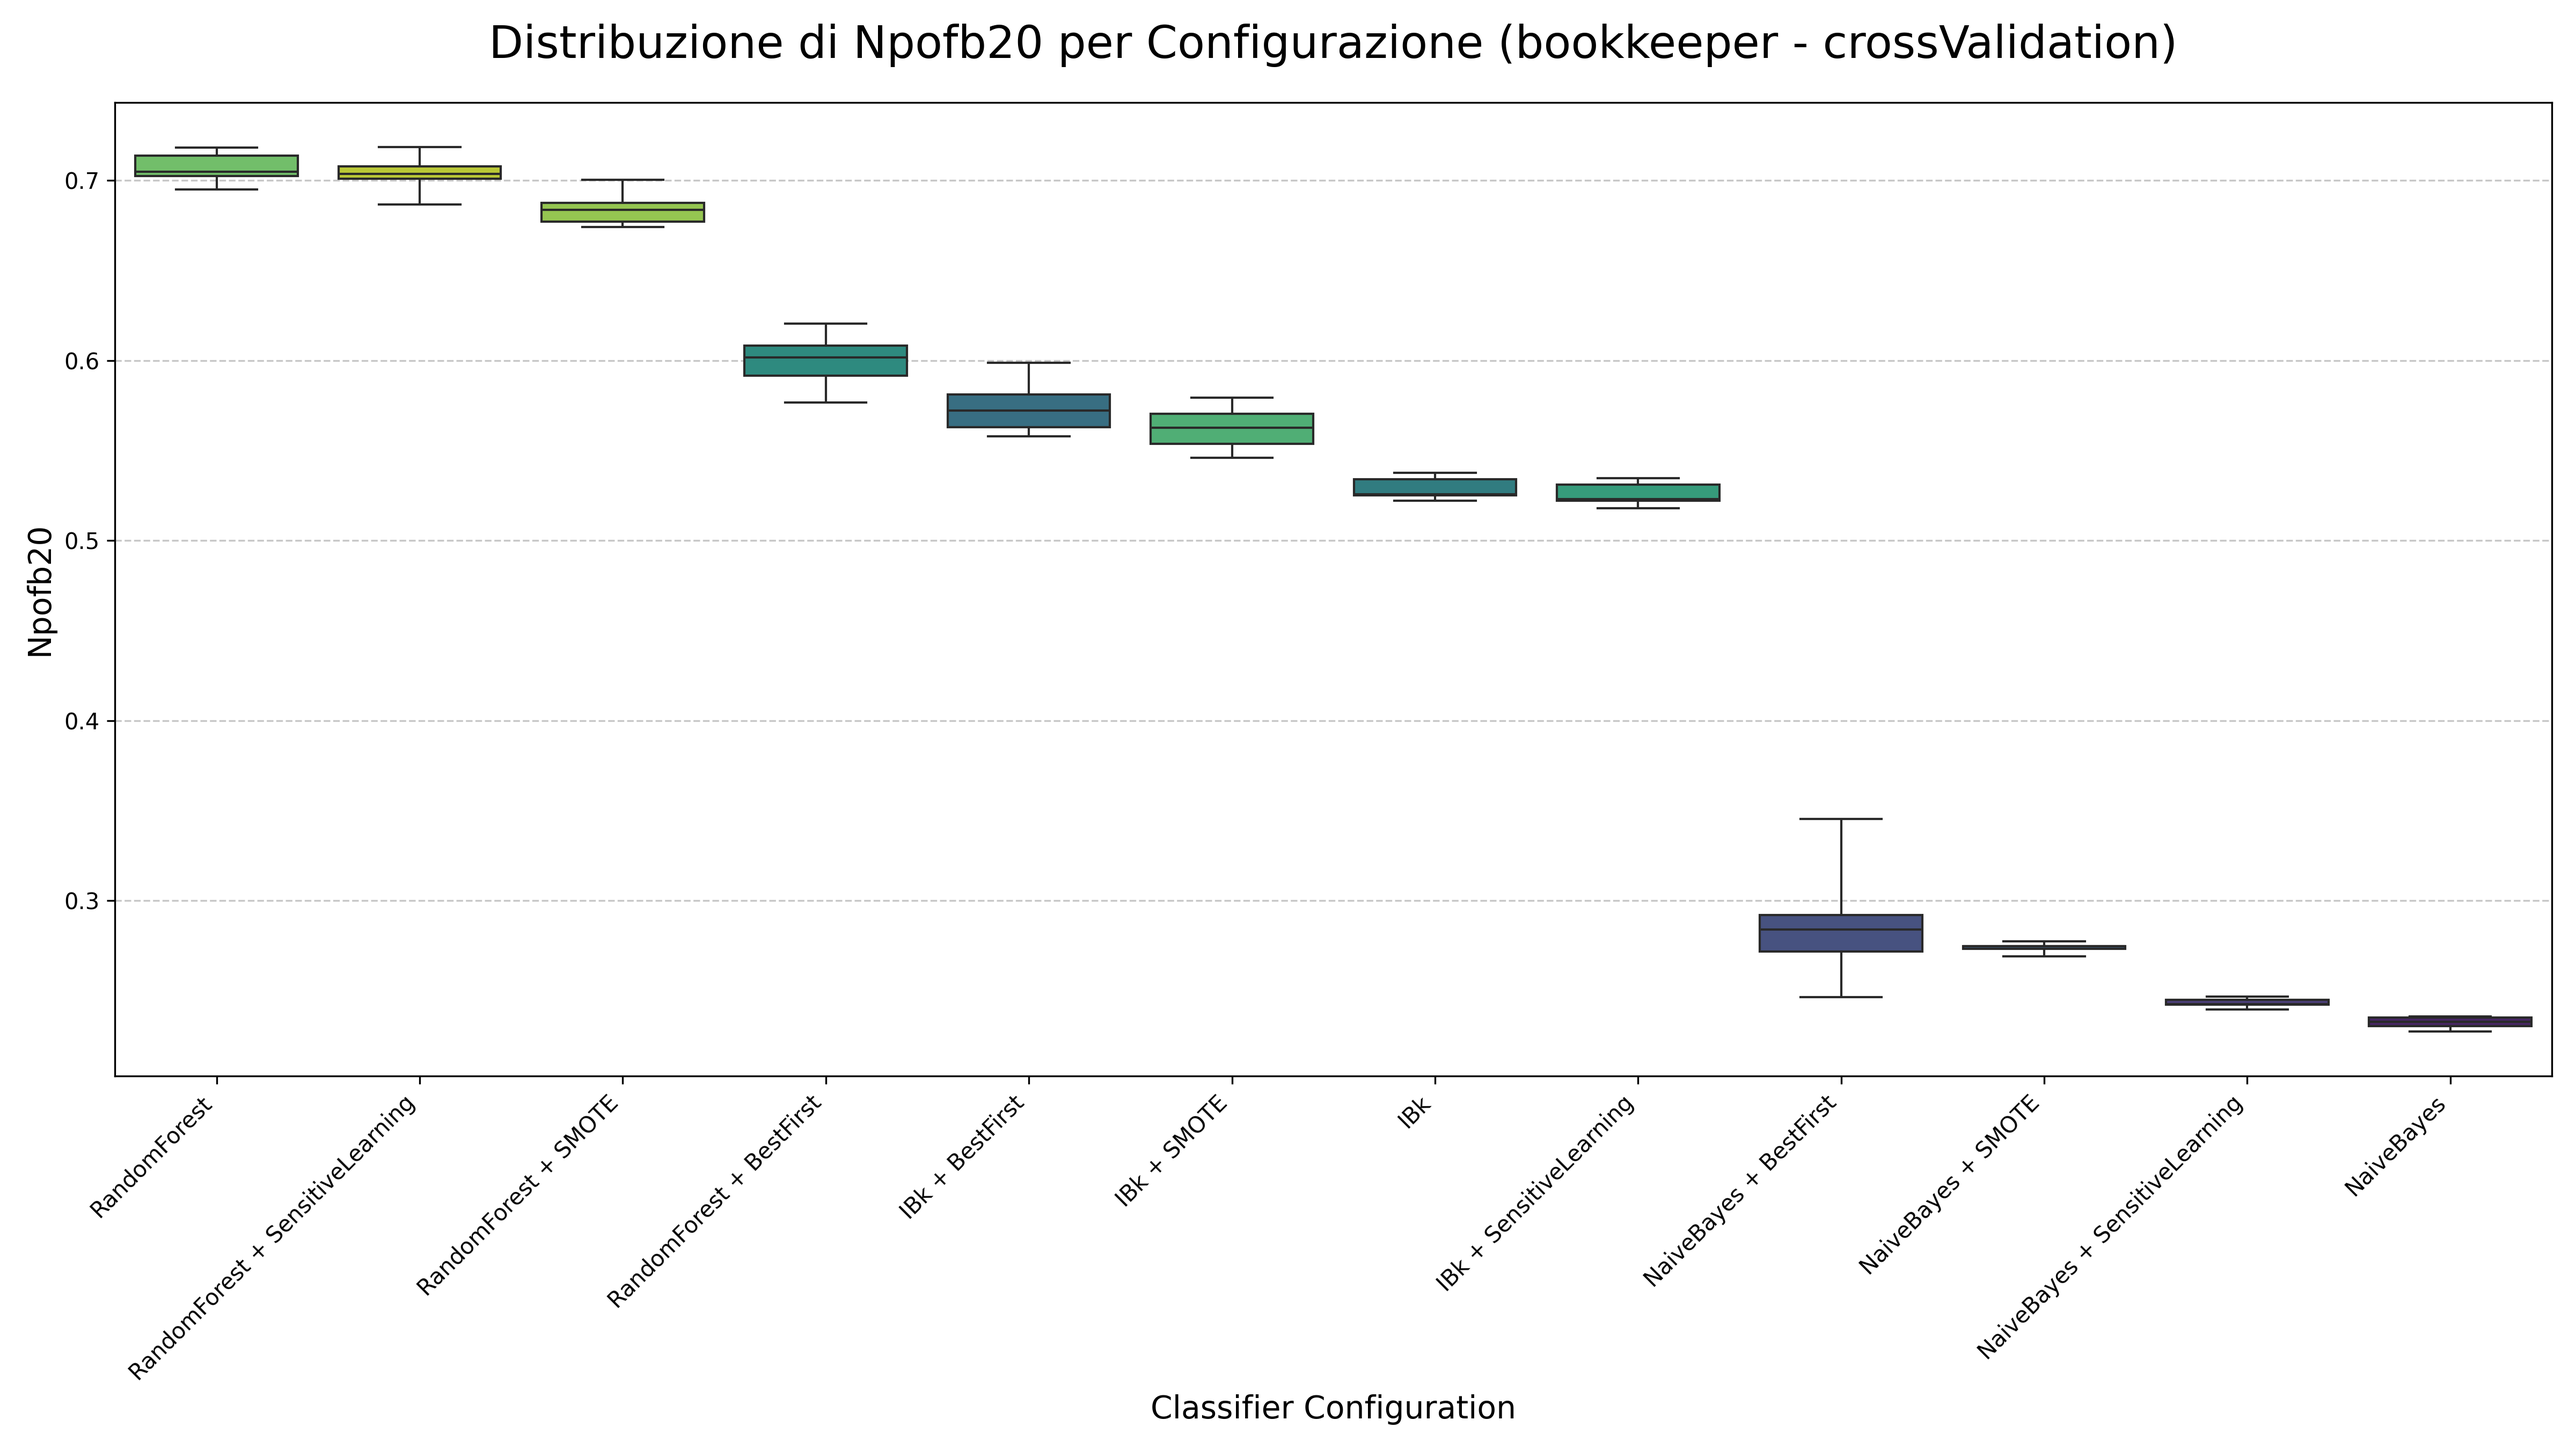
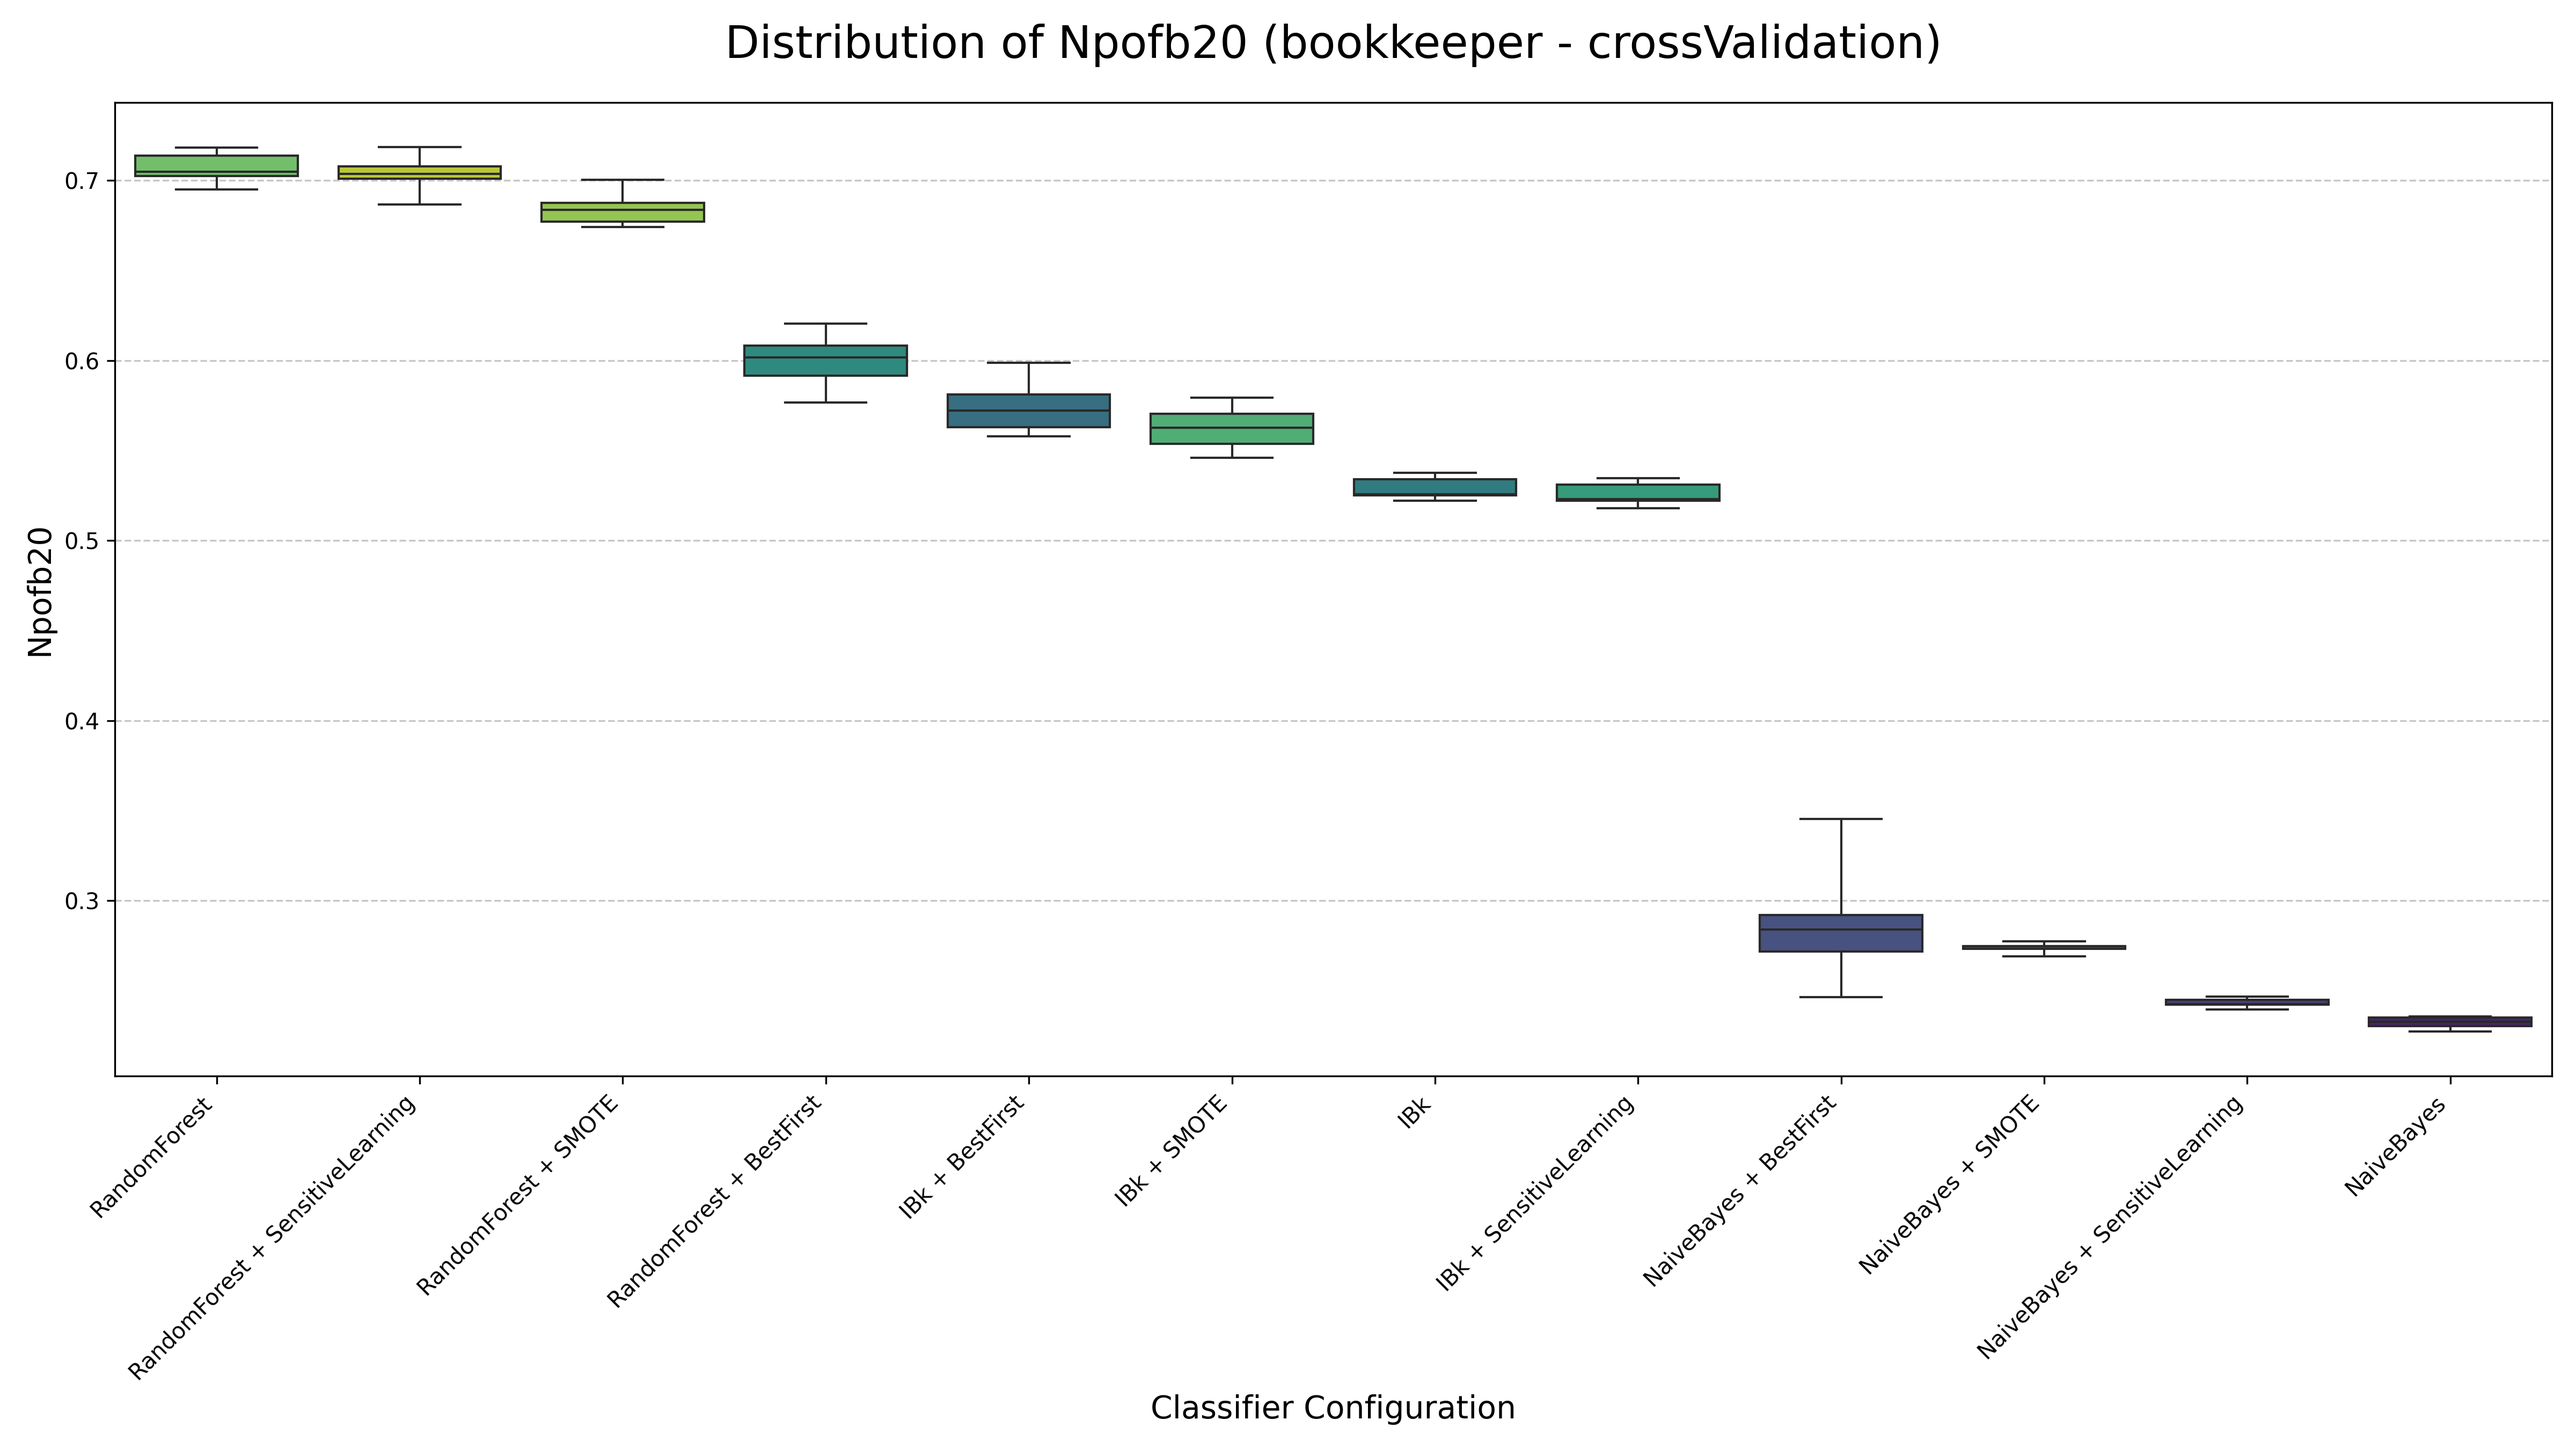
Aggiunti risultati classificatori

Changed region(s): [[0.1875, 0.0, 0.8438, 0.0622]]

diff --git a/plots/generate_box_plot.py b/plots/generate_box_plot.py
@@ -5,22 +5,17 @@ from pathlib import Path
 import numpy as np
 import re
 
-# Cartella di output dei grafici (nella cartella corrente dello script)
 OUTPUT_BASE = Path(__file__).parent / "results"
-
-# Cartella dei dati (wekaResults è fuori dalla cartella dello script)
 DATA_BASE = Path(__file__).parent.parent / "wekaResults"
-
-# Cartella dei dati di Acume
 ACUME_DATA_BASE = Path(__file__).parent.parent / "acumeFiles"
 
 
 def create_box_plot(df, metric, title, output_path):
     """
-    Crea e salva un box plot per una data metrica.
+    Create and save a box plot for a given metric.
     """
     if metric not in df.columns or df[metric].isnull().all() or (df[metric] == 0).all():
-        print(f"Metrica '{metric}' non trovata o contenente solo zeri. Grafico non creato.")
+        print(f"Metric '{metric}' not found or containing only zeros. Plot not created.")
         return
 
     plt.figure(figsize=(16, 9))
@@ -47,13 +42,13 @@ def create_box_plot(df, metric, title, output_path):
     output_path.mkdir(parents=True, exist_ok=True)
     output_filename = output_path / f'boxplot_{metric.lower().replace("-", "_")}.png'
     plt.savefig(output_filename, dpi=300)
-    print(f"Grafico salvato come: {output_filename}")
+    print(f"Plot saved as: {output_filename}")
     plt.close()
 
 
 def create_label(row):
     """
-    Crea un'etichetta di configurazione pulita per una riga del DataFrame.
+    Create a clean configuration label for a DataFrame row.
     """
     parts = [row['Classifier']]
     if row['FeatureSelection'] not in ['none', 'None', '0', 0]:
@@ -68,15 +63,17 @@ def create_label(row):
 def process_results(project_name, technique):
     weka_file_path = DATA_BASE / project_name / technique / "evaluationResults.csv"
     if not weka_file_path.exists():
-        print(f"File Weka non trovato: {weka_file_path}")
+        print(f"Weka file not found: {weka_file_path}")
         return
     df_weka = pd.read_csv(weka_file_path)
 
-    print(f"--- Processando {project_name} - {technique} ---")
+    print(f"--- Processing {project_name} - {technique} ---")
 
     key_cols = ['Classifier', 'FeatureSelection', 'Sampling', 'CostSensitive']
     for col in key_cols:
-        df_weka[col] = df_weka[col].astype(str).fillna('None').replace(['none', '0', '0.0', 'nan'], 'None', regex=False)
+        df_weka[col] = df_weka[col].astype(str).fillna('None').replace(
+            ['none', '0', '0.0', 'nan'], 'None', regex=False
+        )
 
     df_weka['Classifier'] = df_weka['Classifier'].replace({
         'weka.classifiers.bayes.NaiveBayes': 'NaiveBayes',
@@ -84,9 +81,18 @@ def process_results(project_name, technique):
         'weka.classifiers.lazy.IBk': 'IBk'
     })
 
-    df_weka.loc[df_weka['FeatureSelection'].str.contains('BestFirst', case=False, na=False), 'FeatureSelection'] = 'BestFirst'
-    df_weka.loc[df_weka['Sampling'].str.contains('SMOTE', case=False, na=False), 'Sampling'] = 'SMOTE'
-    df_weka.loc[df_weka['CostSensitive'].str.contains('Sensitive', case=False, na=False), 'CostSensitive'] = 'SensitiveLearning'
+    df_weka.loc[
+        df_weka['FeatureSelection'].str.contains('BestFirst', case=False, na=False),
+        'FeatureSelection'
+    ] = 'BestFirst'
+    df_weka.loc[
+        df_weka['Sampling'].str.contains('SMOTE', case=False, na=False),
+        'Sampling'
+    ] = 'SMOTE'
+    df_weka.loc[
+        df_weka['CostSensitive'].str.contains('Sensitive', case=False, na=False),
+        'CostSensitive'
+    ] = 'SensitiveLearning'
 
     for col in ['FeatureSelection', 'Sampling', 'CostSensitive']:
         valid_values = ['BestFirst', 'SMOTE', 'SensitiveLearning', 'None']
@@ -94,19 +100,23 @@ def process_results(project_name, technique):
 
     acume_file_path = ACUME_DATA_BASE / project_name / "output" / technique / "EAM_NEAM_output.csv"
     if not acume_file_path.exists():
-        print(f"File Acume non trovato: {acume_file_path}. Salto l'aggiunta di Npofb20.")
+        print(f"Acume file not found: {acume_file_path}. Skipping Npofb20 merge.")
         df_final = df_weka
     else:
-        print(f"Trovato file Acume: {acume_file_path}")
+        print(f"Acume file found: {acume_file_path}")
         df_acume = pd.read_csv(acume_file_path)
 
         def parse_filename_robust(filename_str):
             fname_lower = filename_str.lower()
 
-            if 'randomforest' in fname_lower: classifier = 'RandomForest'
-            elif 'naivebayes' in fname_lower: classifier = 'NaiveBayes'
-            elif 'ibk' in fname_lower: classifier = 'IBk'
-            else: classifier = 'None'
+            if 'randomforest' in fname_lower:
+                classifier = 'RandomForest'
+            elif 'naivebayes' in fname_lower:
+                classifier = 'NaiveBayes'
+            elif 'ibk' in fname_lower:
+                classifier = 'IBk'
+            else:
+                classifier = 'None'
 
             feature_selection = 'BestFirst' if '_fs' in fname_lower else 'None'
             sampling = 'SMOTE' if 'smote' in fname_lower else 'None'
@@ -115,27 +125,35 @@ def process_results(project_name, technique):
             iteration_match = re.search(r'_(?:run|iter)(\d+)\.csv', fname_lower)
             iteration = int(iteration_match.group(1)) if iteration_match else -1
 
-            return pd.Series([classifier, feature_selection, sampling, cost_sensitive, iteration])
+            return pd.Series([
+                classifier, feature_selection, sampling, cost_sensitive, iteration
+            ])
 
-        df_acume[['Classifier', 'FeatureSelection', 'Sampling', 'CostSensitive', 'Iteration']] = df_acume['Filename'].apply(parse_filename_robust)
+        df_acume[
+            ['Classifier', 'FeatureSelection', 'Sampling', 'CostSensitive', 'Iteration']
+        ] = df_acume['Filename'].apply(parse_filename_robust)
 
         df_weka['Iteration'] = df_weka['Iteration'].astype(int)
         df_acume['Iteration'] = df_acume['Iteration'].astype(int)
 
-        cols_to_merge = ['Classifier', 'FeatureSelection', 'Sampling', 'CostSensitive', 'Iteration', 'Npofb20']
+        cols_to_merge = [
+            'Classifier', 'FeatureSelection', 'Sampling',
+            'CostSensitive', 'Iteration', 'Npofb20'
+        ]
 
         df_final = pd.merge(
             df_weka,
             df_acume[cols_to_merge],
-            on=['Classifier', 'FeatureSelection', 'Sampling', 'CostSensitive', 'Iteration'],
+            on=['Classifier', 'FeatureSelection', 'Sampling',
+                'CostSensitive', 'Iteration'],
             how='left'
         )
 
         matched_rows = df_final['Npofb20'].notna().sum()
         total_rows = len(df_final)
-        print(f"Unione con dati Acume: {matched_rows}/{total_rows} righe abbinate con successo.")
+        print(f"Merge with Acume data: {matched_rows}/{total_rows} rows matched successfully.")
         if matched_rows < total_rows:
-            print("ATTENZIONE: Alcune righe non sono state abbinate.")
+            print("WARNING: Some rows were not matched.")
 
     df_final.fillna(0, inplace=True)
     df_final['Configuration'] = df_final.apply(create_label, axis=1)
@@ -148,13 +166,11 @@ def process_results(project_name, technique):
             create_box_plot(
                 df_final,
                 metric,
-                f"Distribuzione di {metric} per Configurazione ({project_name} - {technique})",
+                f"Distribution of {metric} ({project_name} - {technique})",
                 output_path
             )
         else:
-            print(f"Metrica '{metric}' non trovata nel DataFrame finale. Salto il grafico.")
-
-
+            print(f"Metric '{metric}' not found in final DataFrame. Skipping plot.")
 
 
 def main():
